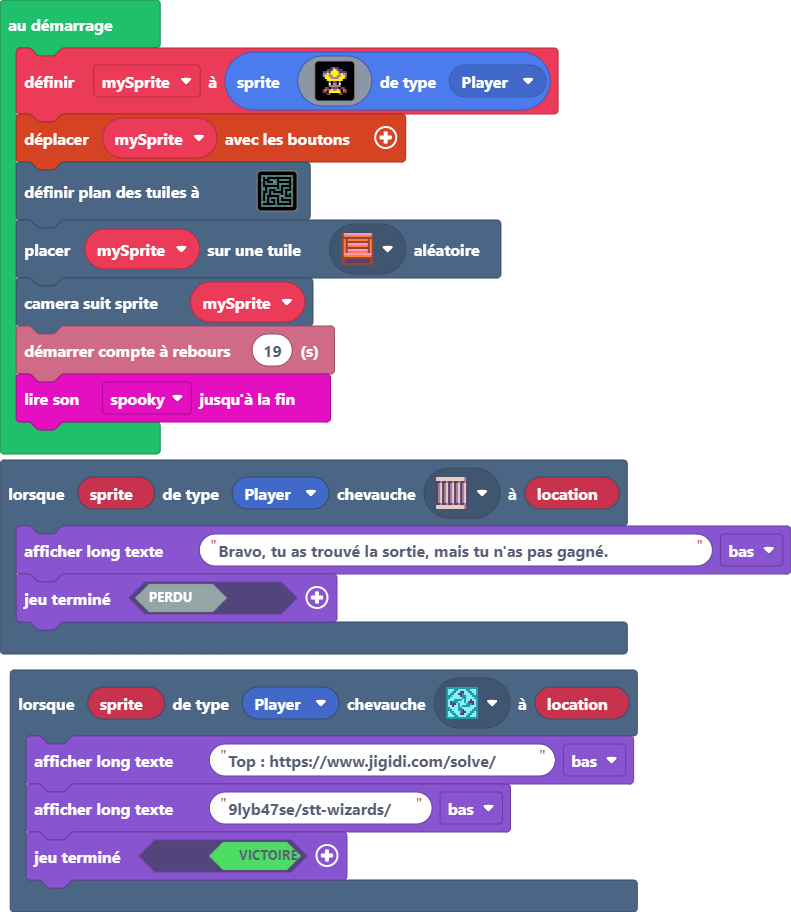
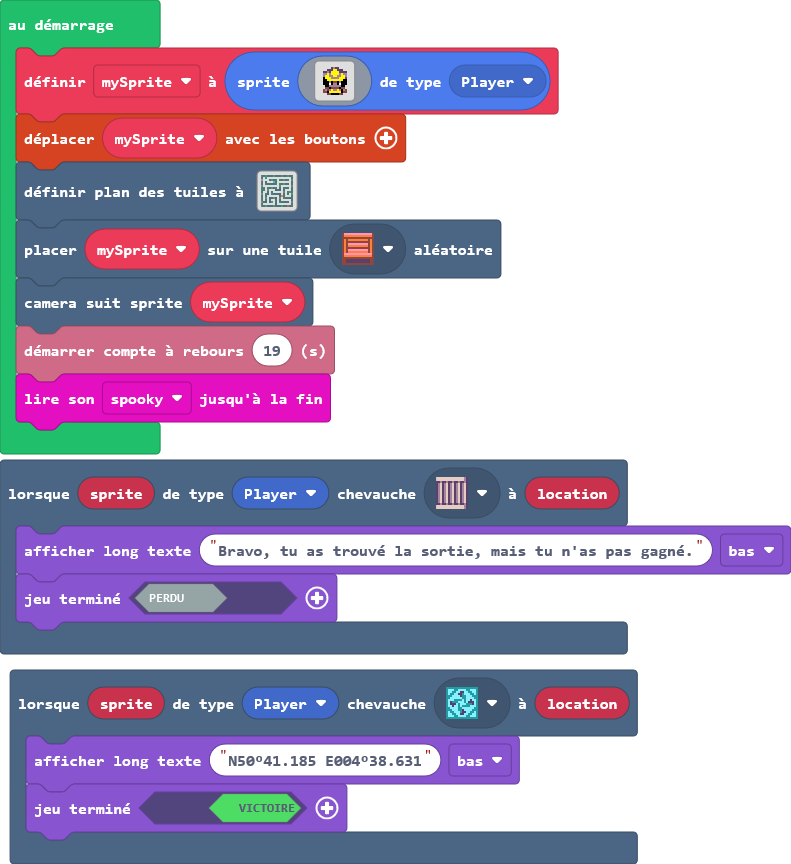
Mise à jour pxt.json, main.blocks, main.ts

diff --git a/main.ts b/main.ts
@@ -3,8 +3,7 @@ scene.onOverlapTile(SpriteKind.Player, sprites.dungeon.stairWest, function (spri
     game.over(false)
 })
 scene.onOverlapTile(SpriteKind.Player, sprites.dungeon.collectibleInsignia, function (sprite, location) {
-    game.showLongText("Top : https://www.jigidi.com/solve/", DialogLayout.Bottom)
-    game.showLongText("9lyb47se/stt-wizards/", DialogLayout.Bottom)
+    game.showLongText("N50°41.185 E004°38.631", DialogLayout.Bottom)
     game.over(true)
 })
 let mySprite = sprites.create(img`
